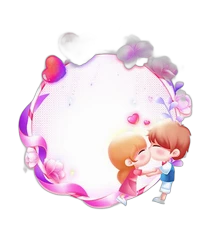
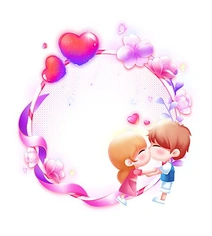
Checkpoint before follow-up message

diff --git a/fix_frames.py b/fix_frames.py
@@ -1,0 +1,185 @@
+#!/usr/bin/env python3
+import requests
+import os
+from PIL import Image, ImageEnhance
+import re
+
+# URLs provided by user
+urls = [
+    "https://ibb.co/Ps07Fxqb",
+    "https://ibb.co/0Rc8xhV6", 
+    "https://ibb.co/W4FFYZdg",
+    "https://ibb.co/XZ8bj6DB",
+    "https://ibb.co/5W2SKdm1",
+    "https://ibb.co/qMTzGKbH",
+    "https://ibb.co/xSndc0T1",
+    "https://ibb.co/JRQ9Rkwc",
+    "https://ibb.co/Cj6P5V6",
+    "https://ibb.co/G3F4djcK",
+    "https://ibb.co/5X0D4Y29",
+    "https://ibb.co/zW1mhJLd",
+    "https://ibb.co/gMm7THj4",
+    "https://ibb.co/k64mT393",
+    "https://ibb.co/0R2wLvVK"
+]
+
+def get_direct_image_url(ibb_url):
+    """Convert ibb.co URL to direct image URL by scraping the page"""
+    try:
+        headers = {
+            'User-Agent': 'Mozilla/5.0 (Windows NT 10.0; Win64; x64) AppleWebKit/537.36 (KHTML, like Gecko) Chrome/91.0.4472.124 Safari/537.36'
+        }
+        
+        response = requests.get(ibb_url, headers=headers, timeout=30)
+        response.raise_for_status()
+        
+        patterns = [
+            r'<meta property="og:image" content="([^"]+)"',
+            r'data-src="([^"]+)"',
+            r'src="(https://i\.ibb\.co/[^"]+)"',
+            r'"url":"(https://i\.ibb\.co/[^"]+)"'
+        ]
+        
+        for pattern in patterns:
+            matches = re.findall(pattern, response.text)
+            if matches:
+                return matches[0]
+        
+        return None
+    except Exception as e:
+        print(f"Error getting direct URL for {ibb_url}: {e}")
+        return None
+
+def download_image(url, filename):
+    """Download image from URL"""
+    try:
+        headers = {
+            'User-Agent': 'Mozilla/5.0 (Windows NT 10.0; Win64; x64) AppleWebKit/537.36 (KHTML, like Gecko) Chrome/91.0.4472.124 Safari/537.36'
+        }
+        
+        response = requests.get(url, stream=True, headers=headers, timeout=60)
+        response.raise_for_status()
+        
+        with open(filename, 'wb') as f:
+            for chunk in response.iter_content(chunk_size=8192):
+                f.write(chunk)
+        return True
+    except Exception as e:
+        print(f"Error downloading {url}: {e}")
+        return False
+
+def simple_background_removal(image_path, output_path):
+    """Simple background removal without using rembg"""
+    try:
+        with Image.open(image_path) as img:
+            # Convert to RGBA
+            img = img.convert('RGBA')
+            
+            # Get image data
+            data = img.getdata()
+            
+            # Create new data with transparency
+            new_data = []
+            
+            # Get the background color (assume it's the color of the corner pixels)
+            bg_colors = [
+                img.getpixel((0, 0)),
+                img.getpixel((img.width-1, 0)),
+                img.getpixel((0, img.height-1)),
+                img.getpixel((img.width-1, img.height-1))
+            ]
+            
+            # Find the most common background color
+            from collections import Counter
+            bg_color = Counter(bg_colors).most_common(1)[0][0]
+            
+            # Remove background
+            for item in data:
+                # If pixel is similar to background color, make it transparent
+                if abs(item[0] - bg_color[0]) < 30 and abs(item[1] - bg_color[1]) < 30 and abs(item[2] - bg_color[2]) < 30:
+                    new_data.append((255, 255, 255, 0))  # Transparent
+                else:
+                    new_data.append(item)
+            
+            # Create new image
+            img.putdata(new_data)
+            img.save(output_path, 'PNG')
+            
+        return True
+    except Exception as e:
+        print(f"Error in simple background removal for {image_path}: {e}")
+        return False
+
+def process_frame_simple(image_path, output_path, target_size=(212, 236)):
+    """Process frame without background removal - just resize and optimize"""
+    try:
+        with Image.open(image_path) as img:
+            # Convert to RGBA
+            if img.mode != 'RGBA':
+                img = img.convert('RGBA')
+            
+            # Resize maintaining aspect ratio
+            img.thumbnail(target_size, Image.Resampling.LANCZOS)
+            
+            # Create new image with target size and transparent background
+            new_img = Image.new('RGBA', target_size, (0, 0, 0, 0))
+            
+            # Center the resized image
+            x = (target_size[0] - img.width) // 2
+            y = (target_size[1] - img.height) // 2
+            new_img.paste(img, (x, y), img)
+            
+            # Enhance the image
+            enhancer = ImageEnhance.Sharpness(new_img)
+            new_img = enhancer.enhance(1.2)
+            
+            # Save as WebP with high quality
+            new_img.save(output_path, 'WEBP', quality=95, method=6)
+        
+        return True
+    except Exception as e:
+        print(f"Error processing {image_path}: {e}")
+        return False
+
+def main():
+    # Create directories
+    temp_dir = "/workspace/temp_frames_fix"
+    output_dir = "/workspace/client/public/frames"
+    
+    os.makedirs(temp_dir, exist_ok=True)
+    
+    target_size = (212, 236)
+    
+    # Process each URL
+    for i, url in enumerate(urls, 7):
+        print(f"\nProcessing frame {i}...")
+        
+        # Get direct image URL
+        direct_url = get_direct_image_url(url)
+        if not direct_url:
+            print(f"Could not get direct URL for frame {i}")
+            continue
+            
+        print(f"Direct URL: {direct_url}")
+        
+        # Download original image
+        temp_original = f"{temp_dir}/frame{i}_original.jpg"
+        if not download_image(direct_url, temp_original):
+            print(f"Failed to download frame {i}")
+            continue
+        
+        # Process frame (resize and optimize without aggressive background removal)
+        final_output = f"{output_dir}/frame{i}.webp"
+        if process_frame_simple(temp_original, final_output, target_size):
+            print(f"Successfully created {final_output}")
+        else:
+            print(f"Failed to process frame {i}")
+    
+    # Clean up temp directory
+    import shutil
+    if os.path.exists(temp_dir):
+        shutil.rmtree(temp_dir)
+    print("\nProcessing complete!")
+
+if __name__ == "__main__":
+    main()
